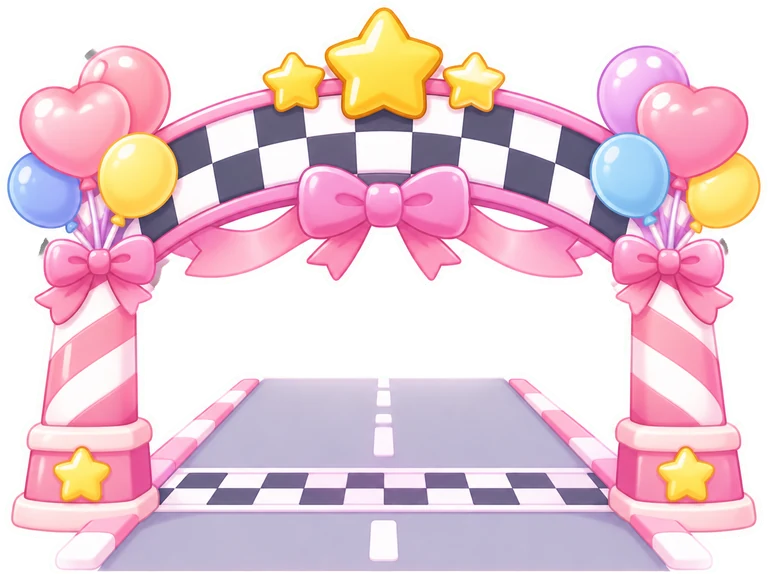
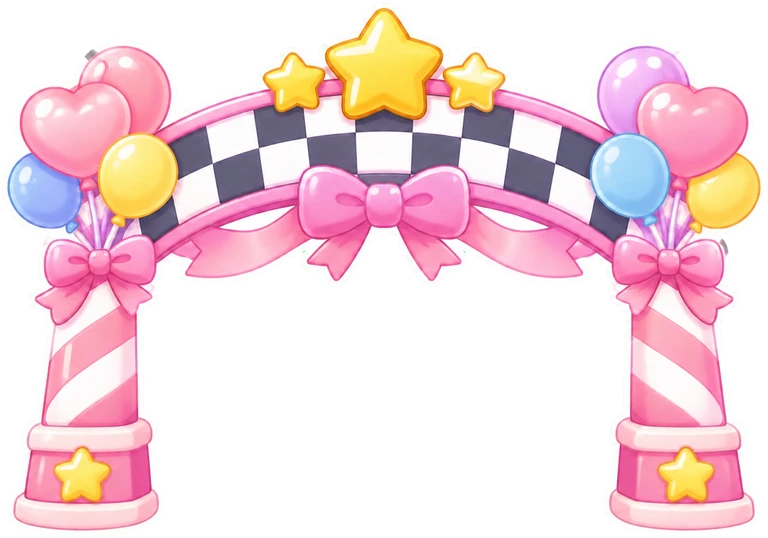
자동차 레이스: 새 출발·결승 아치와 체크 줄 그림
Claude-Session: https://claude.ai/code/session_011wWXPXfSDQ7tZhHovBGBy9

diff --git a/src/components/Race3D.tsx b/src/components/Race3D.tsx
@@ -86,13 +86,13 @@ export function Race3D({ live, theme, car: carId }: { live: MutableRefObject<Rac
 
     // 바퀴 시작·끝 줄(땅에 깐 체크무늬)과 결승 아치(세워 둔 그림, 가운데는 비어 있어서 차가 지나간다)
     // 땅에 깐 체크 줄(얇고 납작하게, 차와 아치 아래에 그려서 차 위로 올라오지 않는다)과 세워 둔 아치
-    const archTex = art('arch')
-    const lineW = LANE_W * LANES + 0.6
-    const lineGeo = keep(new THREE.PlaneGeometry(lineW, 0.9))
-    const lineTex = (() => { const c = document.createElement('canvas'); c.width = 512; c.height = 64; const g = c.getContext('2d')!; const n = 32; for (let i = 0; i < n; i++) { g.fillStyle = i % 2 ? '#ffffff' : '#4a3d5c'; g.fillRect(i * 16, 0, 16, 32); g.fillStyle = i % 2 ? '#4a3d5c' : '#ffffff'; g.fillRect(i * 16, 32, 16, 32) } return s.texOf(c) })()
-    const lineMat = keep(new THREE.MeshBasicMaterial({ map: lineTex, polygonOffset: true, polygonOffsetFactor: -2, polygonOffsetUnits: -2 }))
-    const ARCH_W = ROAD_W + 4.5
-    const archGeo = keep(new THREE.PlaneGeometry(ARCH_W, ARCH_W * (574 / 768)))
+    const archTex = art('arch'), lineTex = art('startline')
+    const lineW = LANE_W * LANES + 0.8
+    // 반듯하게 편 체크무늬 그림(세 줄)을 땅에 납작하게 깐다: 폭에 비해 얇게, 차와 아치보다 먼저 그려서 차 아래로
+    const lineGeo = keep(new THREE.PlaneGeometry(lineW, 1.7))
+    const lineMat = keep(new THREE.MeshBasicMaterial({ map: lineTex, transparent: true, depthWrite: false, polygonOffset: true, polygonOffsetFactor: -2, polygonOffsetUnits: -2 }))
+    const ARCH_W = ROAD_W + 3
+    const archGeo = keep(new THREE.PlaneGeometry(ARCH_W, ARCH_W * (538 / 768)))
     // 아치는 차보다 먼저 그린다(차가 아치 밑을 지날 때 반쪽으로 잘려 보이지 않게)
     const archMat = keep(new THREE.MeshBasicMaterial({ map: archTex, transparent: true, depthWrite: false, side: THREE.DoubleSide }))
     // 출발 문은 차 앞 14칸에 한 번만. 바퀴·결승 문은 거리 그대로
@@ -101,10 +101,11 @@ export function Race3D({ live, theme, car: carId }: { live: MutableRefObject<Rac
       const m = new THREE.Mesh(lineGeo, lineMat)
       m.rotation.x = -Math.PI / 2
       m.position.set(0, 0.04, gateZ(k))
+      m.renderOrder = -0.6
       scene.add(m)
       const arch = new THREE.Mesh(archGeo, archMat)
       arch.renderOrder = -0.5
-      arch.position.set(0, ARCH_W * (574 / 768) / 2 - 0.2, gateZ(k))
+      arch.position.set(0, ARCH_W * (538 / 768) / 2 - 0.2, gateZ(k))
       scene.add(arch)
     }
 
